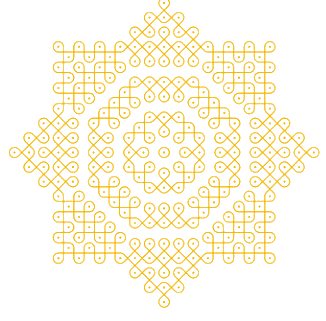
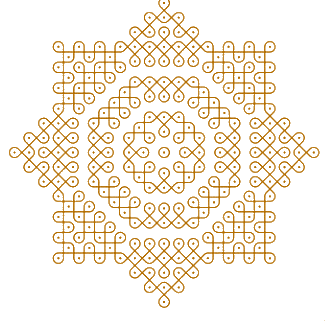
style: darken and enrich color and contrast of kolam art in background

Changed region(s): [[0.0307, 0.0, 0.9816, 0.9657], [0.9816, 0.9969, 1.0, 1.0]]

diff --git a/src/components/EditorialHero.tsx b/src/components/EditorialHero.tsx
@@ -497,7 +497,7 @@ export const EditorialHero: React.FC<EditorialHeroProps> = ({ navigate }) => {
           display: flex;
           align-items: center;
           justify-content: center;
-          opacity: 0.65;
+          opacity: 0.92; /* Rich, dark, distinct visibility */
           animation: slowSpinKolam 120s linear infinite;
         }
 
@@ -510,7 +510,7 @@ export const EditorialHero: React.FC<EditorialHeroProps> = ({ navigate }) => {
           width: 100%;
           height: 100%;
           object-fit: contain;
-          filter: drop-shadow(0 4px 16px rgba(245, 183, 0, 0.25));
+          filter: drop-shadow(0 6px 20px rgba(180, 100, 0, 0.45));
         }
 
         .hero-phone-ambient-glow {

diff --git a/src/components/SpoonKolamCanvas.tsx b/src/components/SpoonKolamCanvas.tsx
@@ -110,10 +110,10 @@ export const SpoonKolamCanvas: React.FC = () => {
           const p2 = trail[i];
           const progress = i / trail.length; // 0 to 1
 
-          // Dual-layer stroke: Rich turmeric gold core with bright white highlights
-          const alpha = 0.15 + progress * 0.55;
-          ctx.strokeStyle = `rgba(248, 181, 4, ${alpha})`;
-          ctx.lineWidth = 2.2 + progress * 1.8;
+          // Dual-layer stroke: Rich deeper golden ochre tone
+          const alpha = 0.28 + progress * 0.62;
+          ctx.strokeStyle = `rgba(195, 120, 0, ${alpha})`;
+          ctx.lineWidth = 2.5 + progress * 2.0;
 
           ctx.beginPath();
           ctx.moveTo(p1.x, p1.y);
